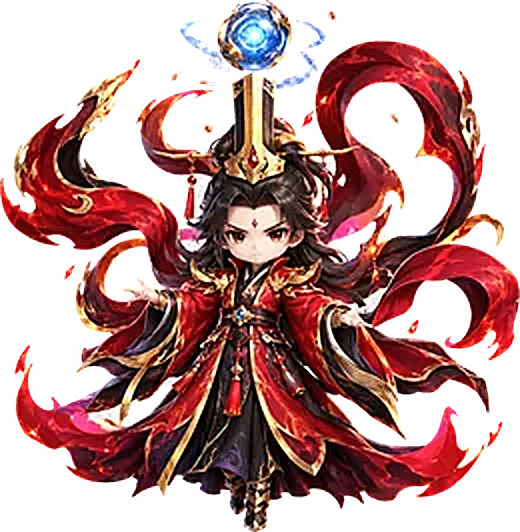
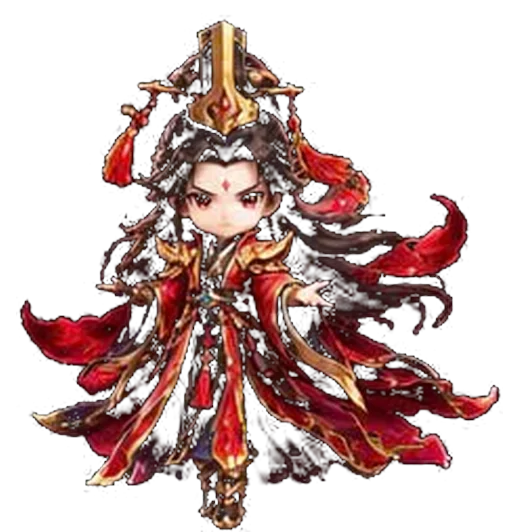
cập nhật bản mới

diff --git a/js/heroes/skills/dong-phuong-co-nuong.js b/js/heroes/skills/dong-phuong-co-nuong.js
@@ -1,177 +1,67 @@
-/* ĐÔNG PHƯƠNG CÔ NƯƠNG (id 9): tuyệt kỹ mạng lửa
-   (tách từ index.html cũ — script) */
+/* ĐÔNG PHƯƠNG CÔ NƯƠNG (id 9): tuyệt kỹ phân thân + lốc lửa
+   Toàn bộ hình ảnh là chuỗi khung (SEQ.dpIdle / dpCast / dpClone / dpFire trong js/heroes/hero-seq.js).
+   Đã xóa mạng lửa 3D bằng canvas và ngọn lửa/đốm lửa trên đầu cũ. */
 
-    // Hỏa Thiên Tướng: 18 đường lửa chém CÙNG LÚC, chồng chéo như tơ nhện lên toàn địch
-    // -> mỗi địch: HTT_FLAT sát thương chuẩn + Công bản thân (không trừ giáp) và mất thêm 50% HP hiện tại
+    // Đứng TẠI CHỖ tung chiêu (SEQ.dpCast, 16 khung) -> PHÂN THÂN (SEQ.dpClone, 18 khung) lao sang đội địch
+    // -> phân thân tới nơi, lốc lửa (SEQ.dpFire, 20 khung) bùng lên trên MỖI địch.
+    // Cơ chế sát thương như cũ: mỗi địch chịu HTT_FLAT + Công bản thân (chuẩn, bỏ qua giáp) và mất thêm 50% HP hiện tại.
     async function fireWebUlt(u, tok) {
       const f = document.getElementById('battle-arena'), box = document.getElementById('bf-units');
       const W = f.clientWidth, H = f.clientHeight, base = 'translate(-50%,-50%)';
       const es0 = foesOf(u).filter(e => e.alive); if (!es0.length) return;
-      const xs = es0.map(e => e.x), ys = es0.map(e => e.y);
-      const cx = (Math.min(...xs) + Math.max(...xs)) / 2, cy = (Math.min(...ys) + Math.max(...ys)) / 2;
-      const ex = (Math.max(...xs) - Math.min(...xs)) * W / 100 + 90, ey = (Math.max(...ys) - Math.min(...ys)) * H / 100 + 90;
-      const len = Math.max(ex, ey) * 1.6 + 60;
-      const made = [];
-      // ===== Ngọn lửa trên đầu: nhiều lưỡi lửa lắc lư theo nhiễu, lõi trắng-vàng, tia lửa bay lên, quầng sáng nhấp nháy =====
-      const headFlame = () => {
-        const CWd = 150, CHt = 190, bx = 75, by = 175, dpr = Math.min(2, window.devicePixelRatio || 1);
-        const cv = document.createElement('canvas'); cv.width = CWd * dpr; cv.height = CHt * dpr;
-        cv.style.cssText = 'position:absolute;pointer-events:none;z-index:99;width:' + CWd + 'px;height:' + CHt + 'px;left:' + (u.x * W / 100 - bx) + 'px;top:' + (u.y * H / 100 - 40 - by) + 'px';
-        f.appendChild(cv); made.push(cv);
-        const ctx = cv.getContext('2d'); ctx.scale(dpr, dpr);
-        const sm = x => { x = Math.max(0, Math.min(1, x)); return x * x * (3 - 2 * x); };
-        const parts = [], t0 = performance.now(); let last = t0, fadeAt = 0;
-        const tongue = (cx, w, h, sway, c0, c1, c2) => {                       // 1 lưỡi lửa hình giọt nước, ngọn cong theo sway
-          const g = ctx.createLinearGradient(0, by, 0, by - h);
-          g.addColorStop(0, c0); g.addColorStop(.55, c1); g.addColorStop(1, c2);
-          ctx.fillStyle = g; ctx.beginPath();
-          ctx.moveTo(cx - w, by);
-          ctx.bezierCurveTo(cx - w * 1.25, by - h * .38, cx + sway * .4 - w * .5, by - h * .72, cx + sway, by - h);
-          ctx.bezierCurveTo(cx + sway * .4 + w * .5, by - h * .72, cx + w * 1.25, by - h * .38, cx + w, by);
-          ctx.quadraticCurveTo(cx, by + w * .6, cx - w, by); ctx.fill();
-        };
-        const frame = now => {
-          if (!cv.isConnected) return;
-          const dt = Math.min(0.05, (now - last) / 1000); last = now;
-          const t = (now - t0) / 1000, grow = sm(t / 0.5) , fa = fadeAt ? Math.max(0, 1 - (now - fadeAt) / 400) : 1;
-          if (fa <= 0) return;
-          const nz = (k, sp) => (Math.sin(t * sp + k * 2.3) + Math.sin(t * sp * 1.73 + k * 5.1) * .6) / 1.6;   // nhiễu mượt -> lửa nhảy múa
-          ctx.clearRect(0, 0, CWd, CHt); ctx.globalCompositeOperation = 'lighter'; ctx.globalAlpha = fa;
-          const pulse = 0.85 + nz(9, 14) * 0.15;
-          const gl = ctx.createRadialGradient(bx, by - 45, 4, bx, by - 45, 78 * grow * pulse);       // quầng sáng toả ra
-          gl.addColorStop(0, 'rgba(255,170,40,.55)'); gl.addColorStop(.5, 'rgba(255,80,10,.22)'); gl.addColorStop(1, 'rgba(255,40,0,0)');
-          ctx.fillStyle = gl; ctx.fillRect(0, 0, CWd, CHt);
-          const NT = 7;
-          for (let k = 0; k < NT; k++) {                                                              // 7 lưỡi lửa, 3 lớp màu
-            const m = k - (NT - 1) / 2, edge = 1 - Math.abs(m) / (NT / 2 + .3);
-            const h = (62 + 46 * (0.5 + 0.5 * nz(k, 9)) + 22 * edge) * grow * edge * (0.9 + nz(k + 3, 17) * 0.12), cx = bx + m * 9 + nz(k + 7, 6) * 4, sw = nz(k + 1, 8) * 20 + m * 3, w = (15 - Math.abs(m) * 2) * (0.9 + 0.1 * grow);
-            tongue(cx, w, h, sw, 'rgba(255,60,0,.85)', 'rgba(255,110,10,.7)', 'rgba(255,40,0,0)');
-            tongue(cx, w * .68, h * .78, sw * .8, 'rgba(255,170,20,.9)', 'rgba(255,200,40,.75)', 'rgba(255,120,0,0)');
-            tongue(cx, w * .38, h * .5, sw * .55, 'rgba(255,255,230,.95)', 'rgba(255,240,150,.8)', 'rgba(255,200,60,0)');
-          }
-          if (!fadeAt || fa > .3) for (let k = 0; k < 3 && parts.length < 90; k++)                    // tia lửa bay lên
-            parts.push({ x: bx + (Math.random() - .5) * 34, y: by - 8 - Math.random() * 30, vx: (Math.random() - .5) * 36, vy: -(50 + Math.random() * 100), age: 0, life: 0.5 + Math.random() * 0.8, sz: 1 + Math.random() * 2.6, ph: Math.random() * 6.283 });
-          for (let n = parts.length - 1; n >= 0; n--) {
-            const p = parts[n]; p.age += dt;
-            if (p.age >= p.life) { parts.splice(n, 1); continue; }
-            p.x += (p.vx + Math.sin(t * 8 + p.ph) * 18) * dt; p.y += p.vy * dt;
-            const q = p.age / p.life;
-            ctx.fillStyle = 'rgba(255,' + ((220 - 150 * q) | 0) + ',' + ((80 - 70 * q) | 0) + ',' + (1 - q) + ')';
-            ctx.beginPath(); ctx.arc(p.x, p.y, p.sz * (1 - q * .6), 0, 6.283); ctx.fill();
-          }
-          ctx.globalAlpha = 1; ctx.globalCompositeOperation = 'source-over';
-          requestAnimationFrame(frame);
-        };
-        requestAnimationFrame(frame);
-        return { fade() { fadeAt = performance.now(); } };
-      };
-      // ===== Mạng lửa 3D (chuyển thể từ FireWebEffect3D.cs): 18 tia + 3 vòng + đường chéo, mỗi sợi 9 điểm lắc lư, nhấp nháy, tia lửa bay =====
-      const fireWeb3D = () => new Promise(res => {
-        const RAYS = HTT_LINES, R = 5, HGT = 2, FLK = 12, PULSE = 0.25, SWAY = 0.25;
-        const HOT = [255, 217, 38], FIRE = [255, 31, 3];
-        const S = Math.max(ex, ey) * 0.55 / R, cxp = cx * W / 100, cyp = cy * H / 100;
-        const THE = 52 * Math.PI / 180, cT = Math.cos(THE), sT = Math.sin(THE), D = 30;
-        const sm = x => { x = Math.max(0, Math.min(1, x)); return x * x * (3 - 2 * x); };
-        const dpr = Math.min(2, window.devicePixelRatio || 1);
-        const cv = document.createElement('canvas'); cv.width = Math.round(W * dpr); cv.height = Math.round(H * dpr);
-        cv.style.cssText = 'position:absolute;left:0;top:0;width:' + W + 'px;height:' + H + 'px;pointer-events:none;z-index:98';
-        f.appendChild(cv); made.push(cv);
-        const ctx = cv.getContext('2d'); ctx.scale(dpr, dpr);
-        const lines = [], rnd = (a, b) => a + Math.random() * (b - a);
-        for (let i = 0; i < RAYS; i++) {                                         // 18 tia chính toả từ tâm
-          const a = i * Math.PI * 2 / RAYS;
-          lines.push({ s: [0, 0, 0], e: [Math.cos(a) * R, rnd(-HGT, HGT), Math.sin(a) * R] });
-        }
-        for (let ring = 1; ring <= 3; ring++) {                                  // 3 vòng mạng nhện + đường chéo
-          const r = R * ring / 3;
-          for (let i = 0; i < RAYS; i++) {
-            const a = i * Math.PI * 2 / RAYS, b = (i + 1) * Math.PI * 2 / RAYS;
-            lines.push({ s: [Math.cos(a) * r, Math.sin(a * 3) * 0.25, Math.sin(a) * r], e: [Math.cos(b) * r, Math.sin(b * 3) * 0.25, Math.sin(b) * r] });
-          }
-          for (let i = 0; i < RAYS; i += 2) {
-            const a = i * Math.PI * 2 / RAYS, b = (i + 3) * Math.PI * 2 / RAYS;
-            lines.push({ s: [Math.cos(a) * r, 0, Math.sin(a) * r], e: [Math.cos(b) * r, 0.2, Math.sin(b) * r] });
-          }
-        }
-        const K = battleFast ? 0.3 : 1, GROW = 350 * K, FADE0 = 1250 * K, END = 1650 * K;
-        const sparks = [], PS = new Float32Array(18);
-        const t0 = performance.now(); let last = t0;
-        const proj = (x, y, z, yaw, out, o) => {
-          const cy2 = Math.cos(yaw), sy2 = Math.sin(yaw), xr = x * cy2 + z * sy2, zr = -x * sy2 + z * cy2;
-          const yB = y * cT - zr * sT, zB = y * sT + zr * cT, k = D / (D - zB);
-          out[o] = cxp + xr * k * S; out[o + 1] = cyp - yB * k * S; out[o + 2] = k;
-        };
-        const frame = now => {
-          if (tok !== battleToken) return res();
-          const dt = Math.min(0.05, (now - last) / 1000); last = now;
-          const el = now - t0, time = el / 1000, g = sm(el / GROW), yaw = time * 0.45;
-          const alpha = el < FADE0 ? 1 : Math.max(0, 1 - (el - FADE0) / (END - FADE0));
-          ctx.clearRect(0, 0, W, H);
-          ctx.globalCompositeOperation = 'lighter'; ctx.lineCap = 'round'; ctx.lineJoin = 'round';
-          const P = []; 
-          for (let i = 0; i < lines.length; i++) {
-            const ln = lines[i];
-            const fl = 1 + Math.sin(time * FLK + i * 1.7) * PULSE;
-            const pp = Math.abs(((time * 4 + i) % 2) - 1);                       // PingPong
-            const c1 = [0, 1, 2].map(q => Math.min(255, (FIRE[q] + (HOT[q] - FIRE[q]) * pp) * fl));
-            const pts = [];
-            for (let j = 0; j < 9; j++) {
-              const tt = j / 8 * g;
-              let x = ln.s[0] + (ln.e[0] - ln.s[0]) * tt, y = ln.s[1] + (ln.e[1] - ln.s[1]) * tt, z = ln.s[2] + (ln.e[2] - ln.s[2]) * tt;
-              const wv = Math.sin(time * FLK + j * 1.8 + i) * SWAY; y += wv; x += wv * 0.4;
-              proj(x, y, z, yaw, PS, 0); pts.push([PS[0], PS[1], PS[2]]);
-            }
-            for (let j = 0; j < 8; j++) {
-              const u0 = j / 8, wd = (0.07 * (1 - u0) + 0.015 * u0) * fl * S * (pts[j][2] + pts[j + 1][2]) / 2;
-              const cr = c1[0] + (FIRE[0] - c1[0]) * u0, cg = c1[1] + (FIRE[1] - c1[1]) * u0, cb = c1[2] + (FIRE[2] - c1[2]) * u0;
-              ctx.beginPath(); ctx.moveTo(pts[j][0], pts[j][1]); ctx.lineTo(pts[j + 1][0], pts[j + 1][1]);
-              ctx.strokeStyle = 'rgba(' + (cr | 0) + ',' + (cg | 0) + ',' + (cb | 0) + ',' + (0.22 * alpha) + ')'; ctx.lineWidth = wd * 3.2; ctx.stroke();   // quầng sáng
-              ctx.strokeStyle = 'rgba(' + (cr | 0) + ',' + (cg | 0) + ',' + (cb | 0) + ',' + (0.95 * alpha) + ')'; ctx.lineWidth = Math.max(1, wd); ctx.stroke();  // lõi lửa
-            }
-          }
-          // tia lửa bay lên (Emit 8 mỗi frame với xác suất 70%)
-          if (el < FADE0 && Math.random() < 0.7) for (let k = 0; k < 8 && sparks.length < 600; k++) {
-            const r = R * 0.6 * Math.cbrt(Math.random()), a = Math.random() * 6.283, b = Math.acos(2 * Math.random() - 1);
-            proj(r * Math.sin(b) * Math.cos(a), r * Math.cos(b), r * Math.sin(b) * Math.sin(a), yaw, PS, 0);
-            sparks.push({ x: PS[0], y: PS[1], vx: (Math.random() - .5) * 60, vy: -(30 + Math.random() * 120), age: 0, life: 0.4 + Math.random() * 1.1, sz: 1 + Math.random() * 3, hot: Math.random() });
-          }
-          for (let n = sparks.length - 1; n >= 0; n--) {
-            const p = sparks[n]; p.age += dt;
-            if (p.age >= p.life) { sparks.splice(n, 1); continue; }
-            p.x += p.vx * dt; p.y += p.vy * dt;
-            const k = p.age / p.life, cr = HOT[0] + (FIRE[0] - HOT[0]) * k, cg = HOT[1] + (FIRE[1] - HOT[1]) * k, cb = HOT[2] + (FIRE[2] - HOT[2]) * k;
-            ctx.fillStyle = 'rgba(' + (cr | 0) + ',' + (cg | 0) + ',' + (cb | 0) + ',' + (1 - k) + ')';
-            ctx.beginPath(); ctx.arc(p.x, p.y, p.sz * (1 - k * .5), 0, 6.283); ctx.fill();
-          }
-          ctx.globalCompositeOperation = 'source-over';
-          if (el >= END && !sparks.length) return res();
-          requestAnimationFrame(frame);
-        };
-        requestAnimationFrame(frame);
-      });
+      const avg = (a, k) => a.reduce((s, x) => s + x[k], 0) / a.length;
+      const tx = avg(es0, 'x'), ty = avg(es0, 'y');
+      const dir = tx >= u.x ? 1 : -1;                                  // ảnh phân thân nhìn sang phải; địch ulti thì lật lại
+      const PX = 138 / SEQ.dpIdle.ch;                                  // px mỗi px ảnh: cùng cỡ dáng đứng (h = 138)
+      const CAST_FR = 70, CLONE_FR = 62, FIRE_FR = 55, HIT_FRAME = 8;
+      const made = [], timers = [], oldZ = u.el.style.zIndex;
+      const cast = seqOverlay(u, SEQ.dpCast, Math.round(SEQ.dpCast.cw * PX));
+      const at = (ms, fn) => timers.push(setTimeout(() => { if (tok === battleToken) fn(); }, seqT(ms)));
+      const add = (cls, x, y) => { const d = document.createElement('div'); d.className = cls; d.style.left = x + '%'; d.style.top = y + '%'; box.appendChild(d); made.push(d); return d; };
       try {
-        // 1. Tụ lửa quanh người
-        const flame = headFlame();
-        u.el.animate([{ transform: base }, { transform: 'translate(-50%,calc(-50% - 14px))' }, { transform: base }], { duration: 600 });
-        await sleep(600); if (tok !== battleToken) return;
-        // 2. Mạng lửa 3D bung ra phủ lên toàn đội địch (18 tia + 3 vòng tơ nhện chằng chịt)
-        const web = fireWeb3D();
-        await sleep(330); if (tok !== battleToken) return;
-        // 3. Trúng toàn địch: sát thương chuẩn (bỏ qua giáp) + 50% HP hiện tại
-        const flat = HTT_FLAT * (u.sk || 1) + u.atk;
+        u.el.style.zIndex = 95;
+        // 1. Tung chiêu tại chỗ (16 khung)
+        for (let i = 0; i < SEQ.dpCast.n; i++) at(i * CAST_FR, () => cast.show(i));
+        at(SEQ.dpCast.n * CAST_FR, () => cast.end());
+        await sleep(6 * CAST_FR); if (tok !== battleToken) return;
+        // 2. Phân thân lao sang giữa đội địch trong ~11 khung đầu, 7 khung cuối tung đòn tại chỗ
+        const CW = Math.round(SEQ.dpClone.cw * PX), CH = Math.round(SEQ.dpClone.ch * PX);
+        const clone = add('bf-dp-clone', u.x, u.y);
+        clone.style.width = CW + 'px'; clone.style.height = CH + 'px';
+        const cs = seqEl(SEQ.dpClone, CW); if (dir < 0) cs.style.transform = 'scaleX(-1)'; clone.appendChild(cs);
+        for (let i = 0; i < SEQ.dpClone.n; i++) setTimeout(() => { if (tok === battleToken) cs.show(i); }, seqT(i * CLONE_FR));
+        const dx = (tx - u.x) * W / 100 - dir * 20, dy = (ty - u.y) * H / 100;
+        clone.animate([{ transform: base + ' scale(.9)', opacity: .2 }, { transform: base + ' scale(1)', opacity: 1, offset: .12 },
+          { transform: `translate(calc(-50% + ${dx}px),calc(-50% + ${dy}px)) scale(1)`, opacity: 1, offset: .62 },
+          { transform: `translate(calc(-50% + ${dx}px),calc(-50% + ${dy}px)) scale(1)`, opacity: 1, offset: .92 },
+          { transform: `translate(calc(-50% + ${dx}px),calc(-50% + ${dy}px)) scale(1)`, opacity: 0 }],
+          { duration: SEQ.dpClone.n * CLONE_FR, easing: 'ease-in-out', fill: 'forwards' });
+        await sleep(Math.round(SEQ.dpClone.n * CLONE_FR * .55)); if (tok !== battleToken) return;
+        // 3. Phân thân tới nơi: lốc lửa bùng lên trên MỖI địch
+        const FW = 190, FH = Math.round(FW * SEQ.dpFire.ch / SEQ.dpFire.cw);
         f.classList.add('screen-shake'); setTimeout(() => f.classList.remove('screen-shake'), 400);
-        foesOf(u).filter(e => e.alive).forEach(e => {
-          const cut = Math.round(e.hp * HTT_HP_PCT);
-          hit(e, flat + cut);
-          const w = document.createElement('div'); w.className = 'bf-wave'; w.style.left = e.x + '%'; w.style.top = e.y + '%';
-          w.style.borderColor = '#fb923c'; w.style.boxShadow = '0 0 24px #ef4444, inset 0 0 24px #f97316';
-          box.appendChild(w); setTimeout(() => w.remove(), 650);
+        const flat = HTT_FLAT * (u.sk || 1) + u.atk;
+        const strikes = es0.map(async (e, k) => {
+          await sleep(k * 60); if (tok !== battleToken) return;
+          const el = add('bf-seq-fx', e.x, e.y); el.style.top = `calc(${e.y}% + 34px)`; el.style.width = FW + 'px'; el.style.height = FH + 'px'; el.style.transform = 'translate(-50%,-80%)';
+          const fs = seqEl(SEQ.dpFire, FW); el.appendChild(fs);
+          for (let i = 0; i < SEQ.dpFire.n; i++) setTimeout(() => { if (tok === battleToken) fs.show(i); }, seqT(i * FIRE_FR));
+          await sleep(HIT_FRAME * FIRE_FR); if (tok !== battleToken) return;
+          if (e.alive) {                                             // sát thương chuẩn + 50% HP hiện tại (như cũ)
+            hit(e, flat + Math.round(e.hp * HTT_HP_PCT));
+            const w = add('bf-wave', e.x, e.y);
+            w.style.borderColor = '#fb923c'; w.style.boxShadow = '0 0 24px #ef4444, inset 0 0 24px #f97316';
+            setTimeout(() => w.remove(), 650);
+          }
+          await sleep((SEQ.dpFire.n - HIT_FRAME) * FIRE_FR); if (tok !== battleToken) return;
+          el.animate([{ opacity: 1 }, { opacity: 0 }], { duration: 140, fill: 'forwards' });
         });
-        await web; if (tok !== battleToken) return;
-        flame.fade();                                           // ngọn lửa trên đầu tắt dần sau khi mạng lửa tan
-        await sleep(450);
+        await Promise.all(strikes); if (tok !== battleToken) return;
+        await sleep(250);
       } finally {
+        timers.forEach(clearTimeout); cast.end();
         made.forEach(d => d.remove());
         u.el.getAnimations().forEach(a => a.cancel());
+        u.el.style.zIndex = oldZ;
       }
     }

diff --git a/js/heroes/hero-stats.js b/js/heroes/hero-stats.js
@@ -24,7 +24,7 @@
       else if (id === 1) ult = `Cần đầy 100 nộ. Mưa cánh hoa sen rơi từ trời xuống chỗ đồng đội đã gục, hoa sen xanh nở ra và HỒI SINH tối đa ${REVIVE_COUNT} tướng với ${pct(REVIVE_HP_PCT)}% HP (nộ về 0, chưa ra đòn ngay lượt đó). Chỉ ulti khi có đồng đội đã gục – nếu chưa có thì giữ nộ và đánh thường.`;
       else if (id === 6) ult = `KHÔNG TỐN NỘ – lượt nào cũng ulti được. Tung bướm ánh sáng bay ra phía địch; 3 màu bướm ngẫu nhiên (trong 7 màu) lần lượt rơi xuống giữa đội địch và nổ tia, mỗi lần gây ${pct(BFLY_MULT * sk)}% Công (≈ ${fmtN(st.atk * BFLY_MULT * sk)}) lên TOÀN BỘ địch, kèm hiệu ứng theo màu bướm (đều ${pct(BF_PCT)}%, kéo dài ${BF_TURNS} hiệp): 🔴 Đỏ chảy máu • 🟠 Cam giảm sát thương • 🟡 Vàng giảm Thủ • 🟢 Lục giảm hồi máu • 🔵 Lam giảm nộ • 🟣 Chàm choáng ${BF_STUN_TARGETS} địch ngẫu nhiên ${BF_STUN_TURNS} hiệp • 💜 Tím trúng độc TOÀN địch + câm lặng ${BF_SILENCE_TARGETS} địch ngẫu nhiên (không thể dùng tuyệt kỹ). Cuối chiêu, TOÀN ĐỘI được +${pct(BFLY_ATK_BUFF)}% Công (không cộng dồn, kéo dài hết trận).`;
       else if (id === 5) ult = `Nâng hoa sen nở rộ, hồi ${pct(HEAL_MULT * sk)}% (Công + Thủ) ≈ ${fmtN(HEAL_MULT * sk * (st.atk + st.def))} máu cho toàn bộ đồng đội còn sống.`;
-      else if (id === 9) ult = `KHÔNG TỐN NỘ – lượt nào cũng ulti được. Chém ra ${HTT_LINES} đường lửa cùng lúc, chồng chéo như tơ nhện lên TOÀN BỘ địch: mỗi địch chịu ${fmtN(HTT_FLAT * sk)} sát thương chuẩn cộng Công bản thân (≈ ${fmtN(HTT_FLAT * sk + st.atk)}), BỎ QUA TẤT CẢ GIÁP, và bị giảm thêm ${pct(HTT_HP_PCT)}% HP hiện tại.`;
+      else if (id === 9) ult = `KHÔNG TỐN NỘ – lượt nào cũng ulti được. Tung chiêu rồi PHÂN THÂN lao sang đội địch, lốc lửa bùng lên ngay trên TOÀN BỘ địch: mỗi địch chịu ${fmtN(HTT_FLAT * sk)} sát thương chuẩn cộng Công bản thân (≈ ${fmtN(HTT_FLAT * sk + st.atk)}), BỎ QUA TẤT CẢ GIÁP, và bị giảm thêm ${pct(HTT_HP_PCT)}% HP hiện tại.`;
       else if (id === 13) ult = `Bay qua đội hình địch, phóng thật nhanh ${BC_HITS} cây tre từ góc chéo trên màn hình xuống: mỗi cây trúng TOÀN địch, tổng ${pct(BC_MULT * sk)}% Công (≈ ${fmtN(st.atk * BC_MULT * sk)}). Giảm ${pct(BC_DEF_DOWN)}% Thủ của toàn địch và tăng ${pct(BC_ATK_UP)}% Công toàn đội ${BC_TURNS} hiệp.`;
       else if (id === 14) ult = `Nhảy lên cao thổi ra sóng âm, ${DT_HITS} lần gây sát thương lên TOÀN địch (tổng ${pct(DT_MULT * sk)}% Công ≈ ${fmtN(st.atk * DT_MULT * sk)}). Giảm ${pct(DT_CRIT)}% Bạo của toàn địch và tăng ${pct(DT_CRIT)}% Bạo toàn đội ${DT_TURNS} hiệp.`;
       else if (id === 15) ult = `Triệu hồi cóc độc phun độc qua đội hình địch: toàn địch giảm ${pct(TD_DEF_DOWN)}% Thủ, mất ${pct(TD_HP_DOWN)}% máu hiện tại (bỏ qua giáp) và giảm ${pct(TD_SPD_DOWN)}% Tốc trong ${TD_TURNS} hiệp.`;

diff --git a/js/heroes/hero-seq.js b/js/heroes/hero-seq.js
@@ -33,6 +33,11 @@ const SEQ = {
   ddIdle:   { src: 'assets/images/seq/doan-du-idle.webp?v=50',   cw: 204, ch: 225, n: 17, drop: .03 },   // đứng yên (17 khung, lặp)
   ddCast:   { src: 'assets/images/seq/doan-du-ult.webp?v=50',    cw: 335, ch: 221, n: 16, drop: .03 },   // tung tuyệt kỹ: vung kiếm, xoáy nước (cùng tỉ lệ người với ddIdle)
   ddRun:    { src: 'assets/images/seq/doan-du-run.webp?v=50',    cw: 236, ch: 181, n: 17 },               // 1 đạo tàn ảnh lao đi (17 khung, nhìn sang PHẢI)
+  // ===== Đông Phương Cô Nương (id 9) — nền đã xóa; idle + ult cùng khung/tỉ lệ =====
+  dpIdle:   { src: 'assets/images/seq/dong-phuong-idle.webp?v=51',  cw: 334, ch: 225, n: 20, drop: .03 },   // đứng yên cố định 1 chỗ (20 khung, lặp)
+  dpCast:   { src: 'assets/images/seq/dong-phuong-ult.webp?v=51',   cw: 334, ch: 225, n: 16, drop: .03 },   // tung tuyệt kỹ: lụa lửa xoáy quanh người (16 khung)
+  dpClone:  { src: 'assets/images/seq/dong-phuong-clone.webp?v=51', cw: 366, ch: 217, n: 18 },               // phân thân lao sang địch (18 khung, nhìn sang PHẢI)
+  dpFire:   { src: 'assets/images/seq/dong-phuong-fire.webp?v=51',  cw: 260, ch: 206, n: 20 },               // lốc lửa bùng lên ở bên địch (20 khung)
   hmlRed:    { src: 'assets/images/seq/hoa-man-lau-buom-red.webp?v=42',     cw: 384, ch: 256, n: 16 },   // Đỏ
   hmlOrange: { src: 'assets/images/seq/hoa-man-lau-buom-orange.webp?v=42',  cw: 384, ch: 256, n: 16 },   // Cam
   hmlYellow: { src: 'assets/images/seq/hoa-man-lau-buom-yellow.webp?v=42',  cw: 384, ch: 256, n: 16 },   // Vàng
@@ -42,7 +47,7 @@ const SEQ = {
   hmlPurple: { src: 'assets/images/seq/hoa-man-lau-buom-purple.webp?v=42',  cw: 384, ch: 256, n: 16 }    // Tím
 };
 // Dáng đứng trong trận: id tướng → { sheet, h = chiều cao hiển thị (px), ms = thời gian 1 vòng }
-const SEQ_IDLE = { 17: { sheet: 'vtdIdle', h: 92, ms: 1300 }, 15: { sheet: 'tdIdle', h: 104, ms: 1300 }, 14: { sheet: 'dtIdle', h: 104, ms: 1300 }, 13: { sheet: 'bcIdle', h: 104, ms: 1300 }, 16: { sheet: 'ndIdle', h: 104, ms: 1300 }, 4: { sheet: 'ttpIdle', h: 120, ms: 1500 }, 11: { sheet: 'vntIdle', h: 132, ms: 3200 }, 5: { sheet: 'acIdle', h: 104, ms: 1300 }, 6: { sheet: 'hmlIdle', h: 140, ms: 1600 }, 10: { sheet: 'tyIdle', h: 124, ms: 1800 }, 12: { sheet: 'ddIdle', h: 128, ms: 1500 } };
+const SEQ_IDLE = { 17: { sheet: 'vtdIdle', h: 92, ms: 1300 }, 15: { sheet: 'tdIdle', h: 104, ms: 1300 }, 14: { sheet: 'dtIdle', h: 104, ms: 1300 }, 13: { sheet: 'bcIdle', h: 104, ms: 1300 }, 16: { sheet: 'ndIdle', h: 104, ms: 1300 }, 4: { sheet: 'ttpIdle', h: 120, ms: 1500 }, 11: { sheet: 'vntIdle', h: 132, ms: 3200 }, 5: { sheet: 'acIdle', h: 104, ms: 1300 }, 6: { sheet: 'hmlIdle', h: 140, ms: 1600 }, 10: { sheet: 'tyIdle', h: 124, ms: 1800 }, 9: { sheet: 'dpIdle', h: 138, ms: 1800 }, 12: { sheet: 'ddIdle', h: 128, ms: 1500 } };
 
 Object.keys(SEQ).forEach(k => { const im = new Image(); im.src = SEQ[k].src; });   // nạp sẵn để lần đầu không giật
 

diff --git a/index.html b/index.html
@@ -26,7 +26,7 @@
   <link rel="stylesheet" href="css/heroes/tieu-yeu.css?v=50">
   <link rel="stylesheet" href="css/core/stamina.css?v=23">
   <link rel="stylesheet" href="css/heroes/doc-co-cau-bai.css?v=23">
-  <link rel="stylesheet" href="css/heroes/dong-phuong-co-nuong.css?v=23">
+  <link rel="stylesheet" href="css/heroes/dong-phuong-co-nuong.css?v=51">
   <link rel="stylesheet" href="css/heroes/hoa-man-lau.css?v=23">
   <link rel="stylesheet" href="css/heroes/kieu-phong.css?v=23">
   <link rel="stylesheet" href="css/heroes/ma-dao-thanh-nu.css?v=23">
@@ -392,7 +392,7 @@
   <script src="js/heroes/skills/ma-dao-thanh-nu.js?v=23"></script>
   <script src="js/heroes/skills/doc-co-cau-bai.js?v=23"></script>
   <script src="js/heroes/skills/kieu-phong.js?v=23"></script>
-  <script src="js/heroes/skills/dong-phuong-co-nuong.js?v=23"></script>
+  <script src="js/heroes/skills/dong-phuong-co-nuong.js?v=51"></script>
   <script src="js/heroes/skills/lac-long-quan.js?v=23"></script>
   <script src="js/heroes/skills/doan-du.js?v=50"></script>
   <script src="js/heroes/skills/ngu-tuyet.js?v=31"></script>

diff --git a/css/heroes/dong-phuong-co-nuong.css b/css/heroes/dong-phuong-co-nuong.css
@@ -3,3 +3,7 @@
 
     .lg-cloud.c1{left:6%;top:30%}
     .lg-cloud.c2{left:58%;top:40%;transform:scale(.8);animation-duration:34s}
+
+    /* Phân thân (SEQ.dpClone) – chuỗi khung, không còn canvas lửa */
+    .bf-dp-clone{position:absolute;z-index:97;pointer-events:none;transform:translate(-50%,-50%)}
+    .bf-dp-clone .hero-seq{position:absolute;left:0;top:0}

diff --git a/README.md b/README.md
@@ -180,3 +180,7 @@ Cùng quy cách (1 hàng × 12 khung, 227×201 px) trong `assets/images/seq/`, k
   Sau đòn nếu HP còn **≤ 10% HP tối đa** (`EXEC_PCT` trong `js/battle/skill-config.js`) → **TẤT SÁT** kết liễu ngay (bỏ qua cả bất tử). Code: `js/heroes/skills/tieu-yeu.js`.
 - **Đoàn Dự**: đứng yên = `SEQ.ddIdle` (17 khung) · tung chiêu = `SEQ.ddCast` (16 khung) · 18 đạo tàn ảnh chạy = `SEQ.ddRun` (17 khung). Code: `js/heroes/skills/doan-du.js`.
 - Đã xóa hiệu ứng/ảnh cũ: bộ xương + lửa CSS + `fx/skull.webp`, emoji/ảnh tàn ảnh chạy cũ, ảnh Bạch Ma Vương cũ.
+
+## Cập nhật v46: Đông Phương Cô Nương (id 9)
+- Đứng yên = `SEQ.dpIdle` (20 khung) · tung chiêu = `SEQ.dpCast` (16 khung) · phân thân chạy sang địch = `SEQ.dpClone` (18 khung) · lốc lửa trên địch = `SEQ.dpFire` (20 khung). Code: `js/heroes/skills/dong-phuong-co-nuong.js`.
+- Đã xóa mạng lửa 3D (canvas), ngọn lửa và đốm lửa trên đầu cũ. Cơ chế sát thương giữ nguyên (HTT_FLAT + Công chuẩn bỏ qua giáp, mất thêm 50% HP hiện tại, hiệu ứng vòng sóng khi trúng).
